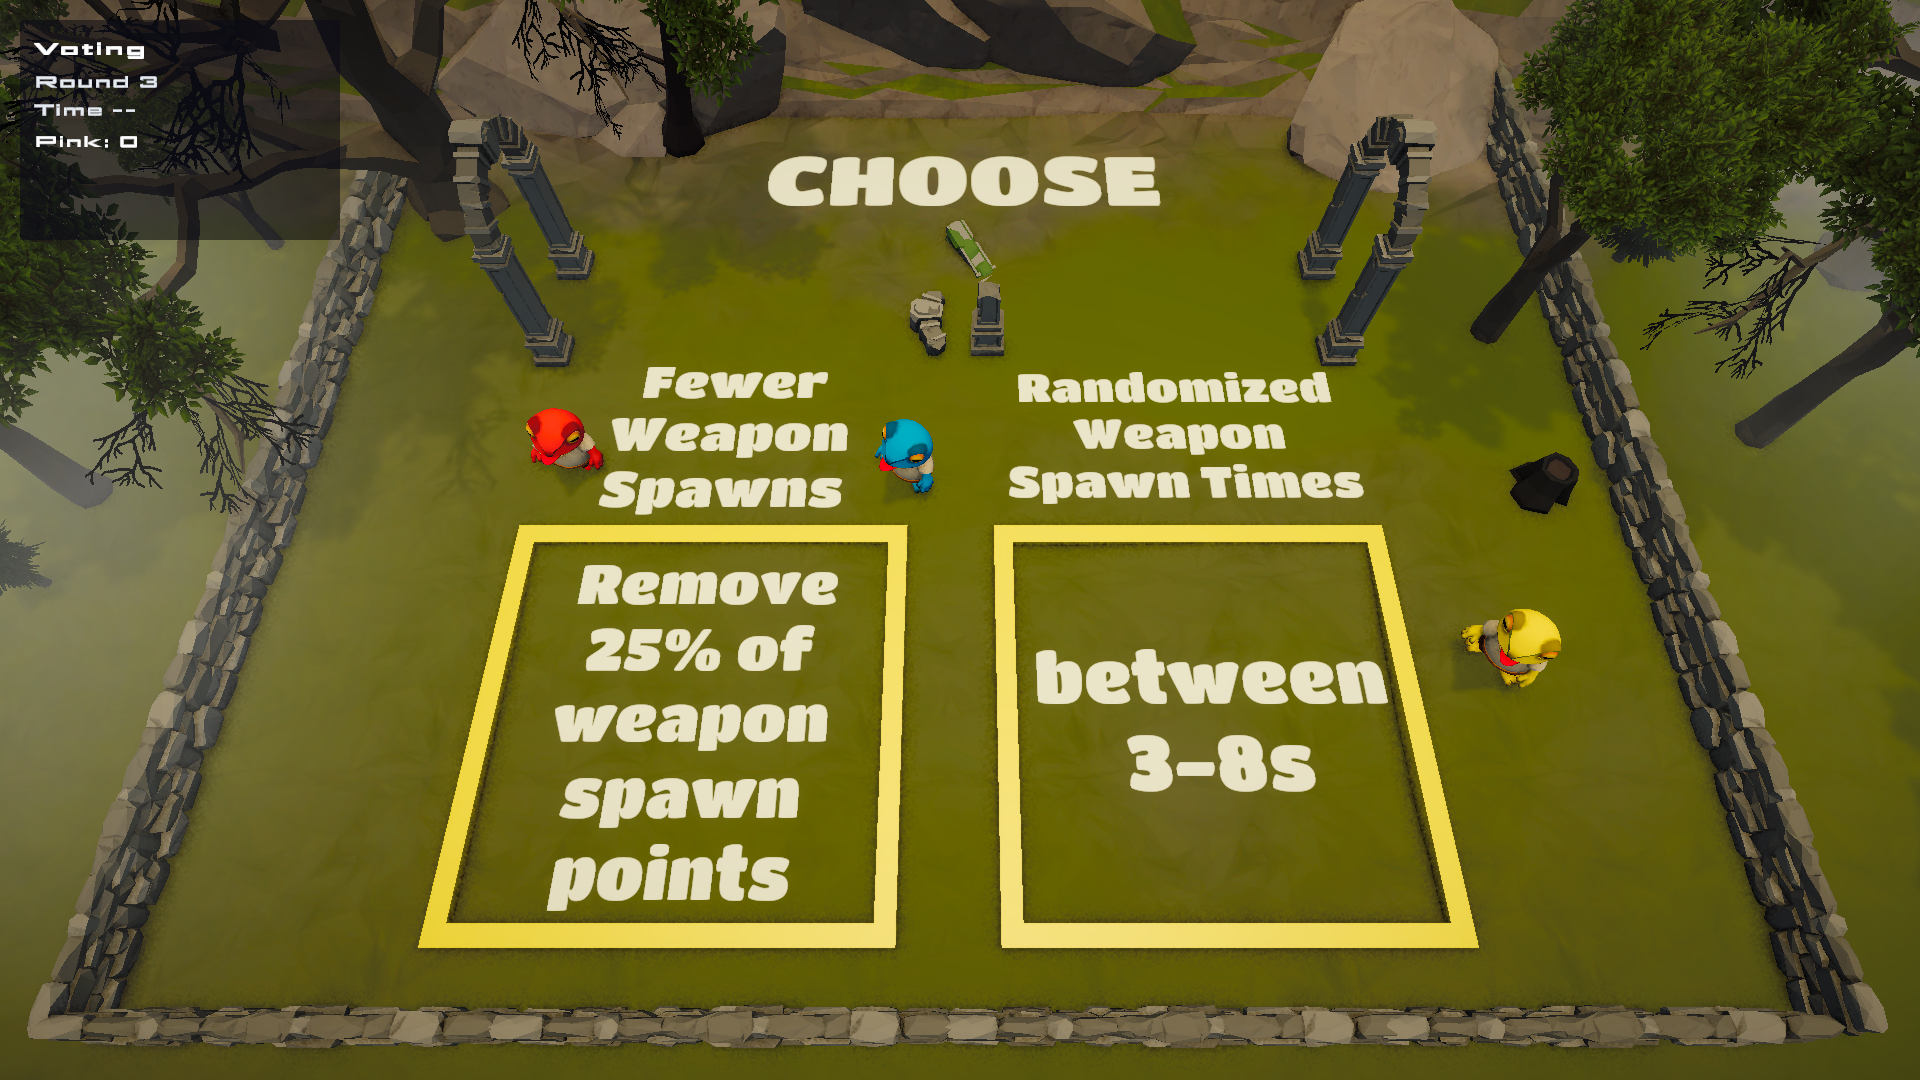
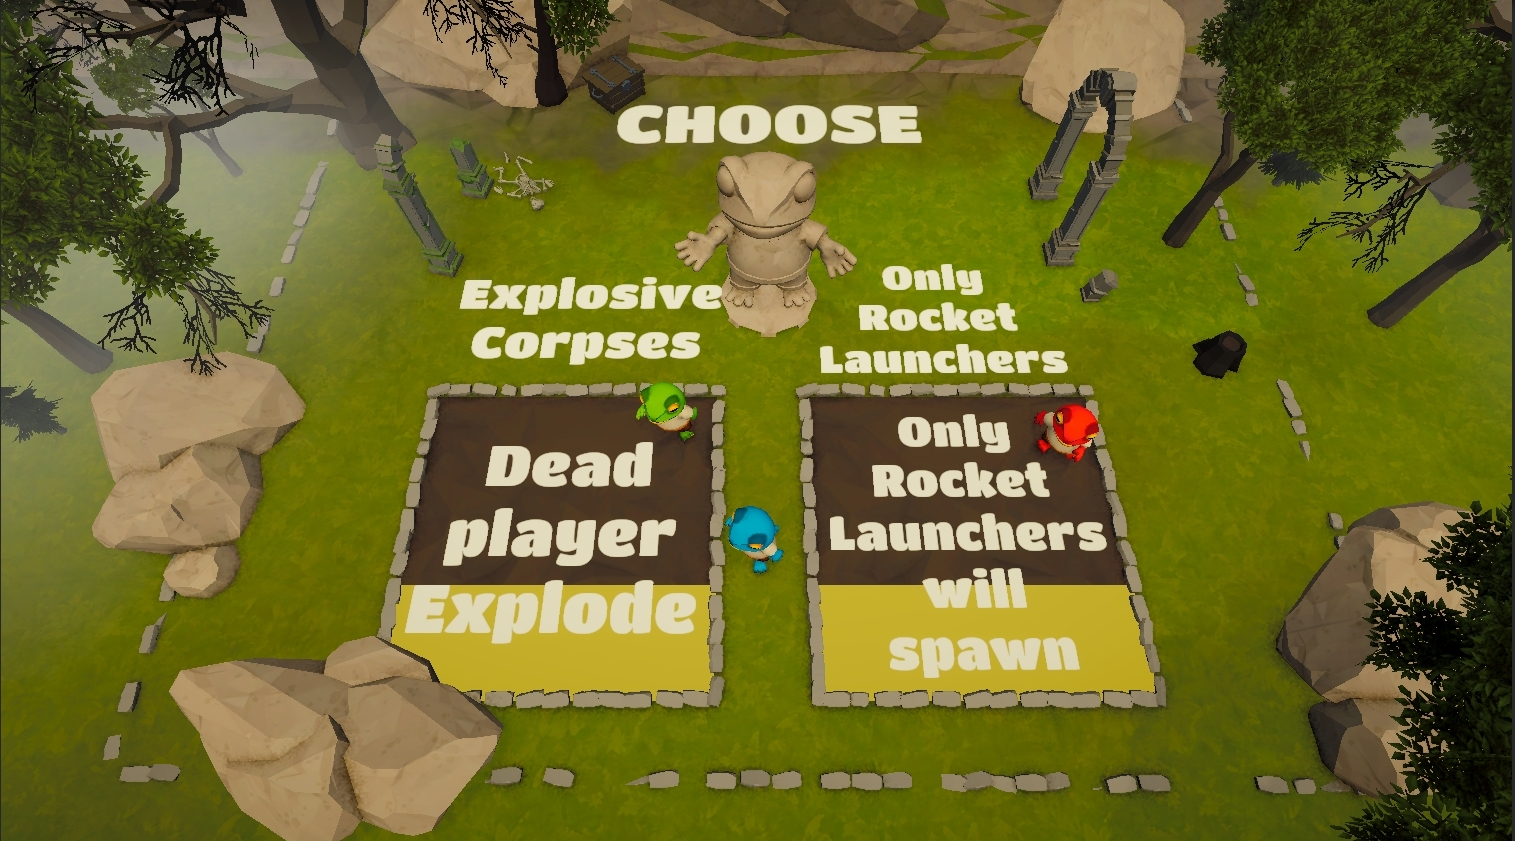
Updated images

diff --git a/src/geck-wrecked/GeckWrecked.vue b/src/geck-wrecked/GeckWrecked.vue
@@ -94,12 +94,12 @@
             <p>Gameplay footage <em>Work in progress</em></p>
           </article>
           <article class="media-card">
-            <img class="media-image" src="/geck-wrecked/Voting_Stage.png" alt="The modifier voting stage in GECK WRECKED">
-            <p>Voting stage <em>Choose the next rule</em></p>
+            <img class="media-image" src="/geck-wrecked/Forest_Map.png" alt="Three Gecks battling in a forest arena">
+            <p>Forest arena <em>Fight among the ruins</em></p>
           </article>
           <article class="media-card">
-            <div class="placeholder behind"><b>02</b></div>
-            <p>Behind the scenes <em>Under wraps</em></p>
+            <img class="media-image" src="/geck-wrecked/Island_Map.png" alt="Three Gecks battling on a tropical island arena">
+            <p>Island arena <em>Watch your step</em></p>
           </article>
         </div>
       </section>
